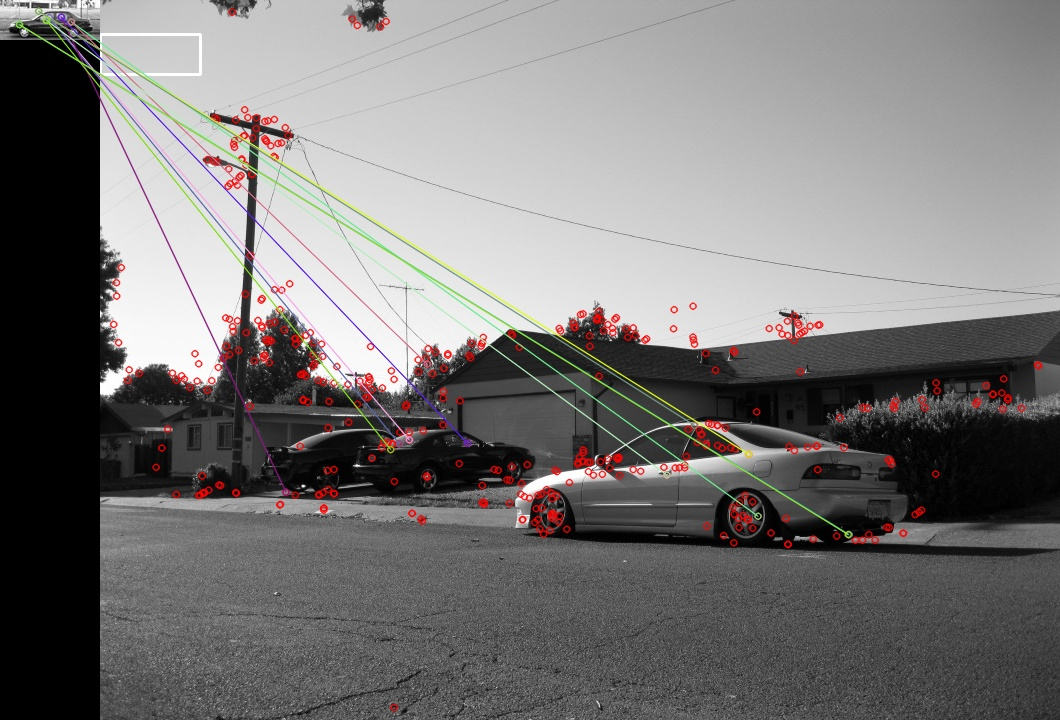
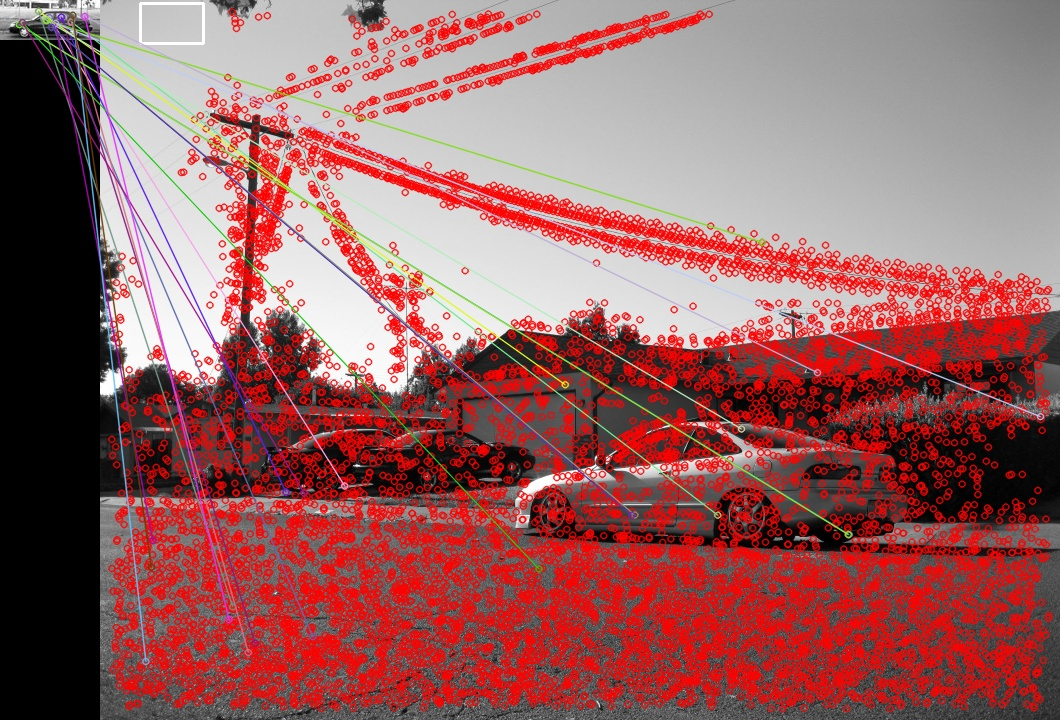
ja fa el rectanglesudo git add .!

diff --git a/homography_2.py b/homography_2.py
@@ -1,0 +1,54 @@
+import numpy as np
+import cv2
+
+
+
+img1 = cv2.imread('carsol.jpg',0)
+img2 = cv2.imread('car.jpg',0)
+w, h = img1.shape[::-1]
+
+surf = cv2.xfeatures2d.SURF_create(1000)
+
+kp1, des1 = surf.detectAndCompute(img1,None)
+kp2, des2 = surf.detectAndCompute(img2,None)
+
+
+
+FLANN_INDEX_KDTREE = 0
+index_params = dict(algorithm = FLANN_INDEX_KDTREE, trees = 5)
+search_params = dict(checks = 50)
+
+flann = cv2.FlannBasedMatcher(index_params, search_params)
+
+matches = flann.knnMatch(des1,des2,k=2)
+
+
+
+good_matches = []
+
+for m,n in matches:
+  print(m.distance)
+  print(n.distance)
+  if m.distance < 0.75*n.distance:
+    good_matches.append(m)
+
+print(len(good_matches))
+
+src_pts = np.float32([ kp1[m.queryIdx].pt for m in good_matches ]).reshape(-1,1,2)
+dst_pts = np.float32([ kp2[m.trainIdx].pt for m in good_matches ]).reshape(-1,1,2)
+
+print(dst_pts)
+M, mask = cv2.findHomography(src_pts, dst_pts, cv2.RANSAC,5.0)
+matchesMask = mask.ravel().tolist()
+
+pts = np.float32([ [0,0],[0,h-1],[w-1,h-1],[w-1,0] ]).reshape(-1,1,2)
+dst = cv2.perspectiveTransform(pts,M)
+
+
+img2 = cv2.polylines(img2,[np.int32(dst)],True,255,3)
+
+
+#img2 = cv2.drawKeypoints(img2, kp2, np.array([]), (0,0,255), 2)
+
+#img3 = cv2.drawMatchesKnn(img1,kp1,img2,kp2,matches,None,flags=2)
+cv2.imwrite('homography_2.jpg',img2)

diff --git a/homography.py b/homography.py
@@ -20,7 +20,8 @@ search_params = dict(checks = 50)
 flann = cv2.FlannBasedMatcher(index_params, search_params)
 
 matches = flann.knnMatch(des1,des2,k=2)
-
+sP, dP = Tools.pointsFromMatches(kp1, kp2, matches)
+H, mask = cv2.findHomography(sP, dP, cv2.RANSAC)
 
 print (matches)
 
@@ -32,16 +33,18 @@ for meth in methods:
 # Apply template Matching
 res = cv2.matchTemplate(des1,des2,cv2.TM_CCORR_NORMED)
 
-min_val, max_val, min_loc, max_loc = cv2.minMaxLoc(res)
+min_val, max_val, min_loc, max_loc = cv2.minMaxLoc(des1)
 print (max_loc)
 # If the method is TM_SQDIFF or TM_SQDIFF_NORMED, take minimum
 if method in [cv2.TM_SQDIFF, cv2.TM_SQDIFF_NORMED]:
-  top_left = min_loc
+  top_left  = min_loc 
+  
 else:
-   top_left = max_loc
+  top_left  = max_loc 
+ 
 
 
-bottom_right = (top_left[0] + w, top_left[1] + h)
+bottom_right = (top_left[1] + w, top_left[1] + h)
 
 cv2.rectangle(img2,top_left, bottom_right, 255, 2)
 
